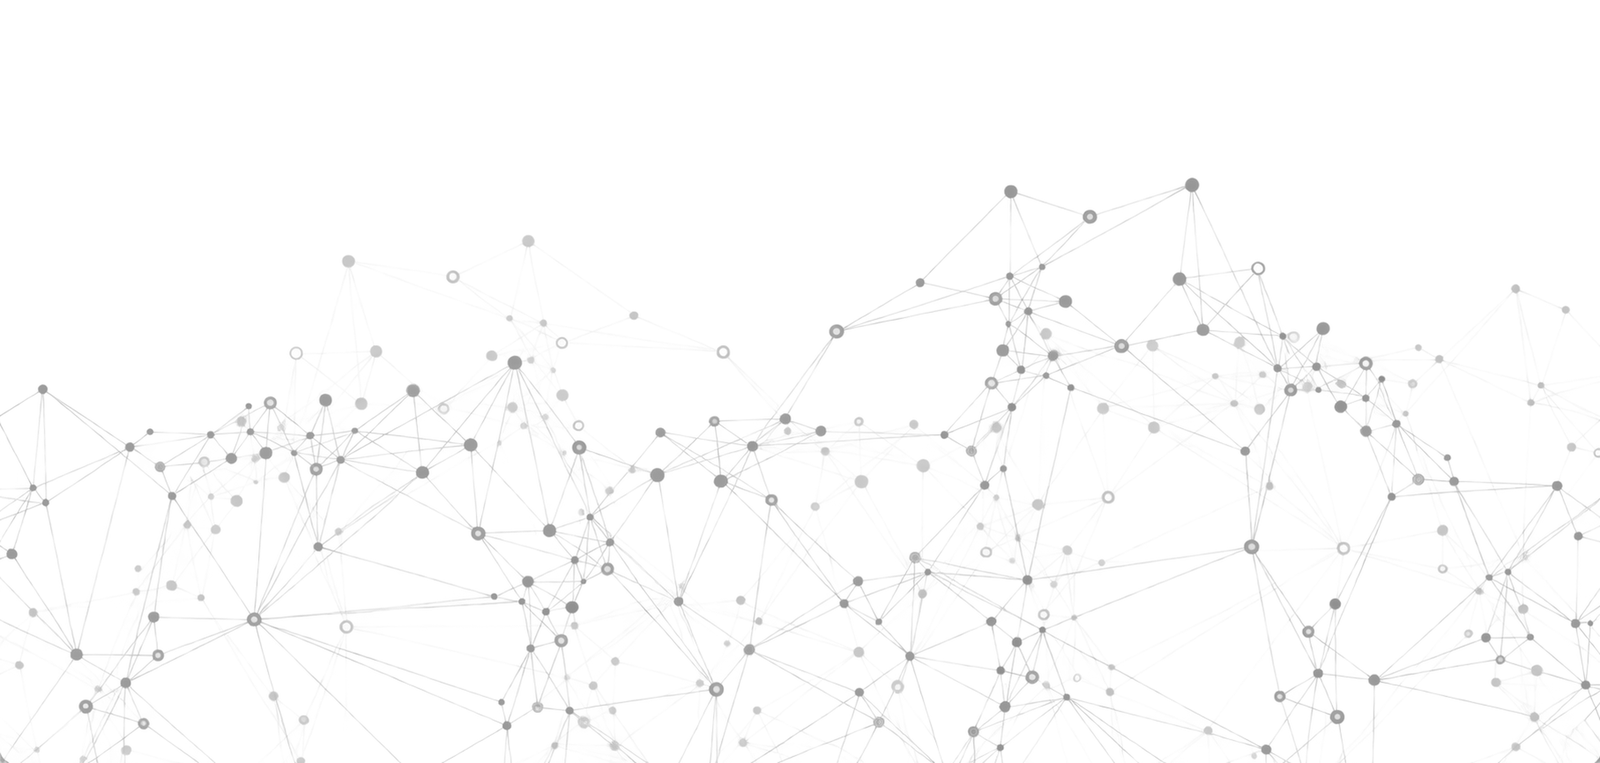
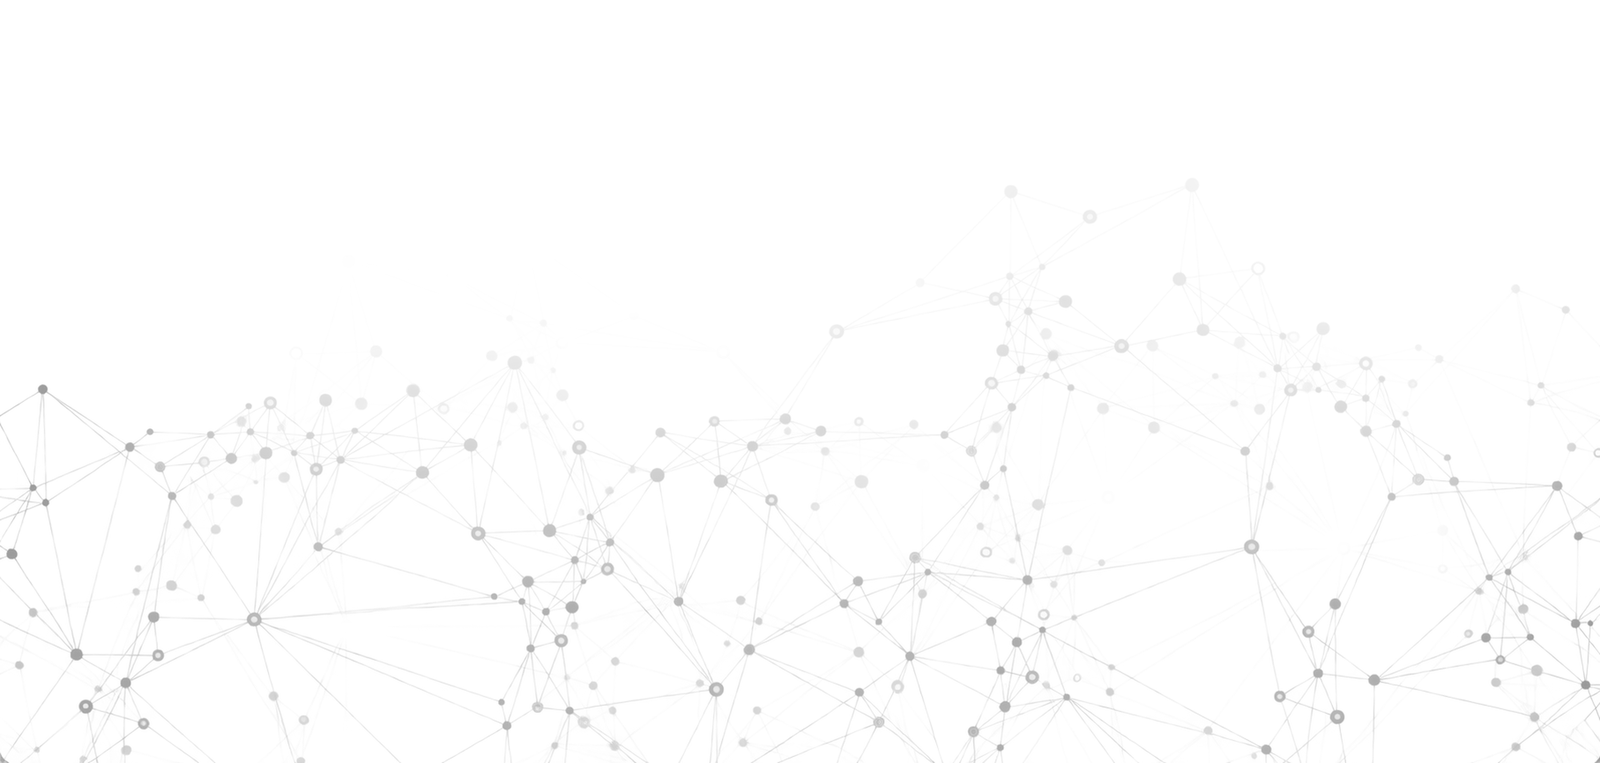
Align resume contact and slow the updated network artwork

diff --git a/assets/career-timeline.js b/assets/career-timeline.js
@@ -24,6 +24,7 @@
   const outro = document.querySelector('.career-outro');
   const footer = document.querySelector('.portfolio-footer');
   const backdrops = document.querySelector('.career-backdrops');
+  const network = backdrops?.querySelector('.career-network');
   const ending = document.createElement('div');
   ending.className = 'career-ending';
   const endingHomes = [contact, outro, footer].filter(Boolean).map(node => {
@@ -162,6 +163,7 @@
   function reset() {
     scrollCamera = null;
     backdrops?.style.removeProperty('--career-backdrop-footer-space');
+    network?.style.removeProperty('transform');
     if (scrollTween) {
       scrollTween.scrollTrigger.kill();
       scrollTween.kill();
@@ -216,6 +218,11 @@
     const measuredViewport = c.narrow && viewportMeasure ? Math.round(viewportMeasure.getBoundingClientRect().height) : window.innerHeight;
     if (track.clientWidth === c.width && measuredViewport === c.viewport) {
       c.readingPosition = captureReadingPosition(false);
+    }
+    if (network) {
+      // Counter 70% of the page movement and keep the same placement at the footer.
+      const remaining = Math.max(0, document.documentElement.scrollHeight - window.innerHeight - scroll);
+      network.style.transform = 'translateY(' + (-.7 * remaining).toFixed(3) + 'px)';
     }
     // Mobile finishes at the final milestone, including its ending controls.
     const point = c.anchor ? path.getPointAtLength(Math.min(progress, c.lastStopAt) * c.length) : null;

diff --git a/assets/career-timeline.css b/assets/career-timeline.css
@@ -28,6 +28,8 @@
   block-size: 100lvh;
 }
 .career-shell {
+  --career-scroll-cue-width: min(40%, 582px);
+  --career-scroll-cue-inset: .5%;
   position: relative;
   width: min(calc(100% - 3rem), calc(68.75rem * var(--career-layout-scale)));
   margin-inline: auto;
@@ -74,12 +76,17 @@
   line-height: 1.15;
 }
 .career-contact {
+  --career-contact-width: calc(15rem * var(--career-layout-scale));
   position: absolute;
   top: calc(1.25rem * var(--career-layout-scale));
   right: 0;
   z-index: 1;
-  width: calc(15rem * var(--career-layout-scale));
+  width: var(--career-contact-width);
   text-align: center;
+}
+.career-scene .career-contact {
+  top: calc(1.25rem * var(--career-layout-scale) - 14px);
+  right: calc(var(--career-scroll-cue-inset) + (var(--career-scroll-cue-width) - var(--career-contact-width)) / 2);
 }
 .career-contact h2 { margin: 0 0 1rem; font-size: calc(1.4rem * var(--career-layout-scale)); font-weight: 650; line-height: 1.3; }
 .career-contact__email { color: #16b1e6; font-size: calc(.875rem * var(--career-layout-scale)); text-decoration: none; }
@@ -109,8 +116,8 @@
   position: absolute;
   z-index: 1;
   inset-block-start: clamp(5.5rem, 18svh, 18rem);
-  inset-inline-end: .5%;
-  width: min(40%, 582px);
+  inset-inline-end: var(--career-scroll-cue-inset);
+  width: var(--career-scroll-cue-width);
   height: auto;
   pointer-events: none;
   transition: opacity .32s ease-out, visibility 0s .32s;

diff --git a/artur/resume/index.html b/artur/resume/index.html
@@ -18,7 +18,7 @@ redirect_from:
   {% include seo.html %}
   {% include site-favicon.html %}
   <link rel="stylesheet" href="{{ '/assets/site.css' | relative_url }}?v=15">
-  <link rel="stylesheet" href="{{ '/assets/career-timeline.css' | relative_url }}?v=25">
+  <link rel="stylesheet" href="{{ '/assets/career-timeline.css' | relative_url }}?v=26">
   {% include personal-typography.html %}
   {% include career-timeline-scripts.html %}
 </head>
@@ -33,9 +33,9 @@ redirect_from:
         src="{{ '/assets/career-timeline/cellular-automata-background.webp' | relative_url }}"
         decoding="async" fetchpriority="low">
       <img class="career-network" alt="" width="3840" height="1832"
-        src="{{ '/assets/career-timeline/network-background.webp' | relative_url }}"
-        srcset="{{ '/assets/career-timeline/network-background-1600.webp' | relative_url }} 1600w,
-          {{ '/assets/career-timeline/network-background.webp' | relative_url }} 3840w"
+        src="{{ '/assets/career-timeline/network-background.webp' | relative_url }}?v=2"
+        srcset="{{ '/assets/career-timeline/network-background-1600.webp' | relative_url }}?v=2 1600w,
+          {{ '/assets/career-timeline/network-background.webp' | relative_url }}?v=2 3840w"
         sizes="(max-width: 42rem) 42rem, 100vw" loading="lazy" decoding="async" fetchpriority="low">
     </div>
   <main class="career-shell">

diff --git a/_includes/career-timeline-scripts.html b/_includes/career-timeline-scripts.html
@@ -9,7 +9,7 @@
       }, { once: true });
     })();
   </script>
-  <script src="{{ '/assets/career-timeline.js' | relative_url }}?v=30" defer></script>
+  <script src="{{ '/assets/career-timeline.js' | relative_url }}?v=31" defer></script>
   <script src="{{ '/assets/vendor/gsap/3.15.1/gsap.min.js' | relative_url }}" defer></script>
   <script src="{{ '/assets/vendor/gsap/3.15.1/ScrollTrigger.min.js' | relative_url }}" defer></script>
   <script src="{{ '/assets/vendor/gsap/3.15.1/ScrollSmoother.min.js' | relative_url }}" defer></script>
